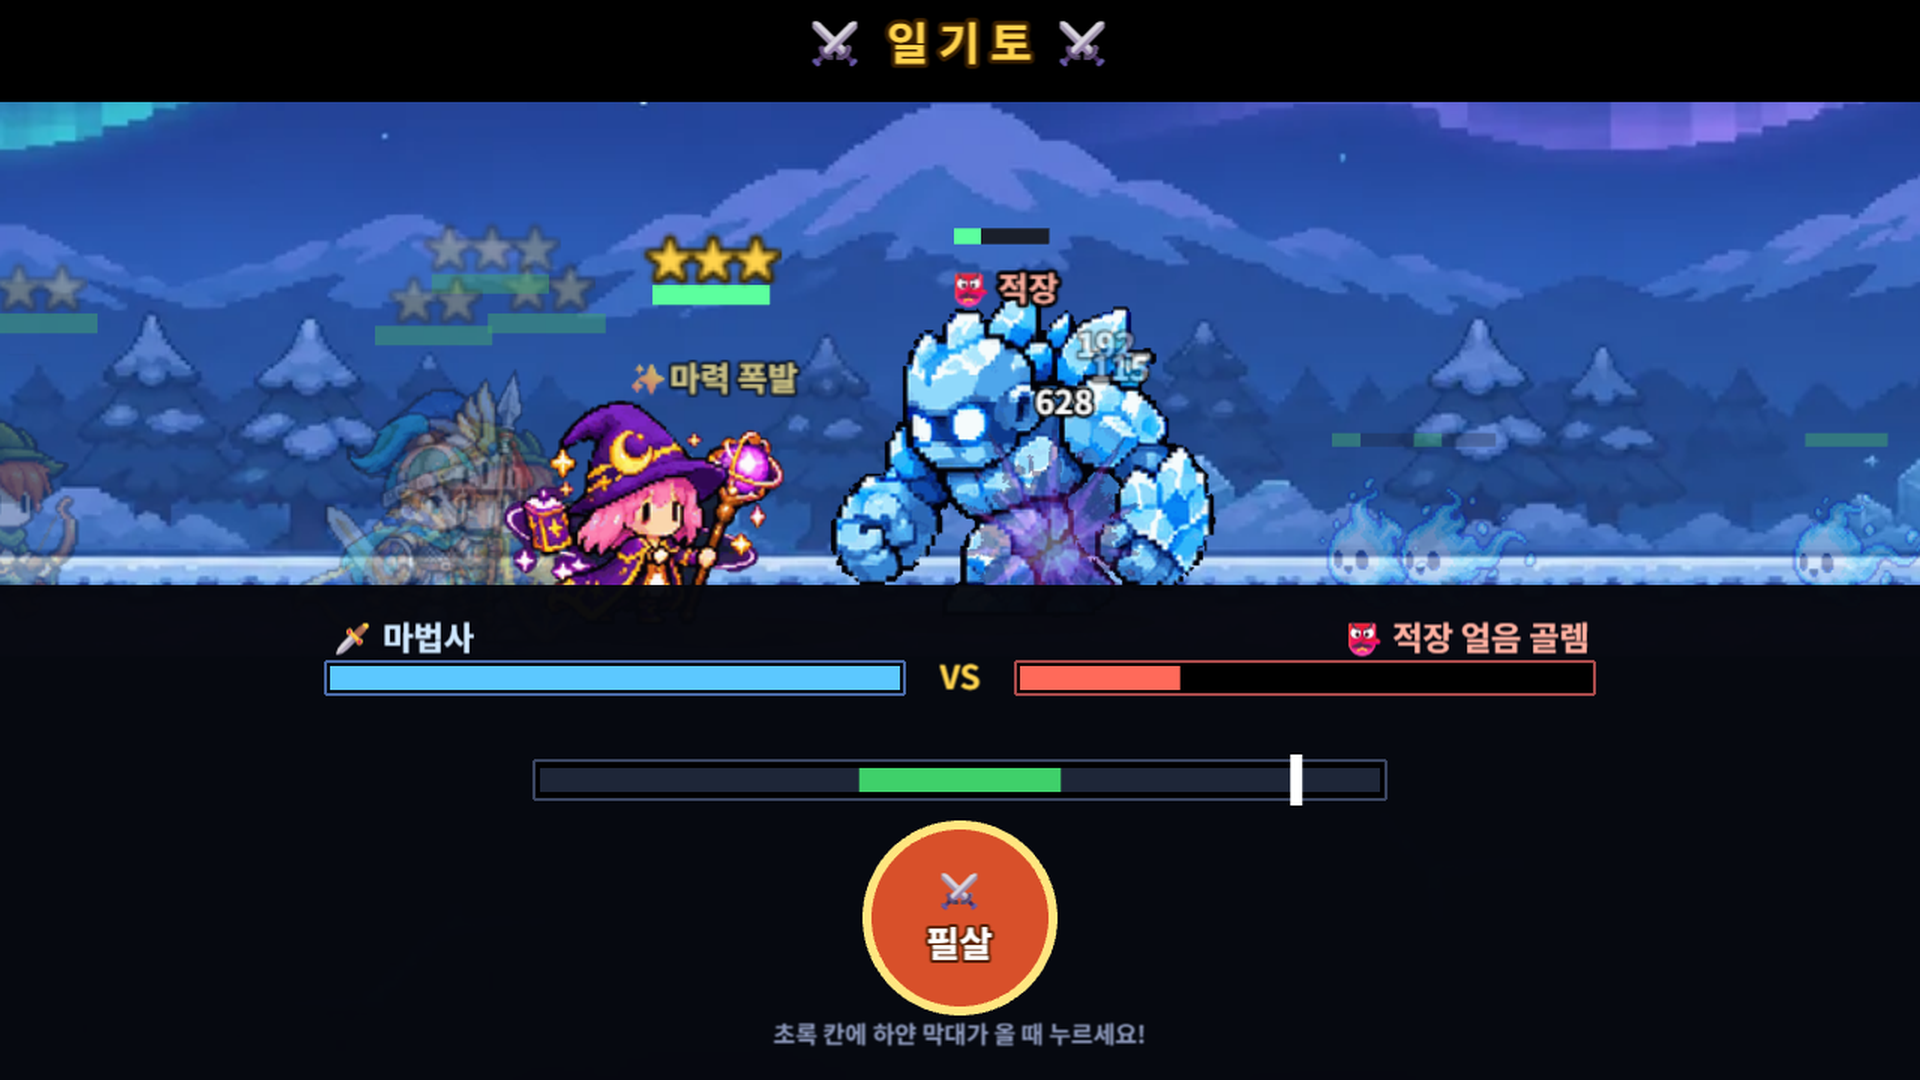
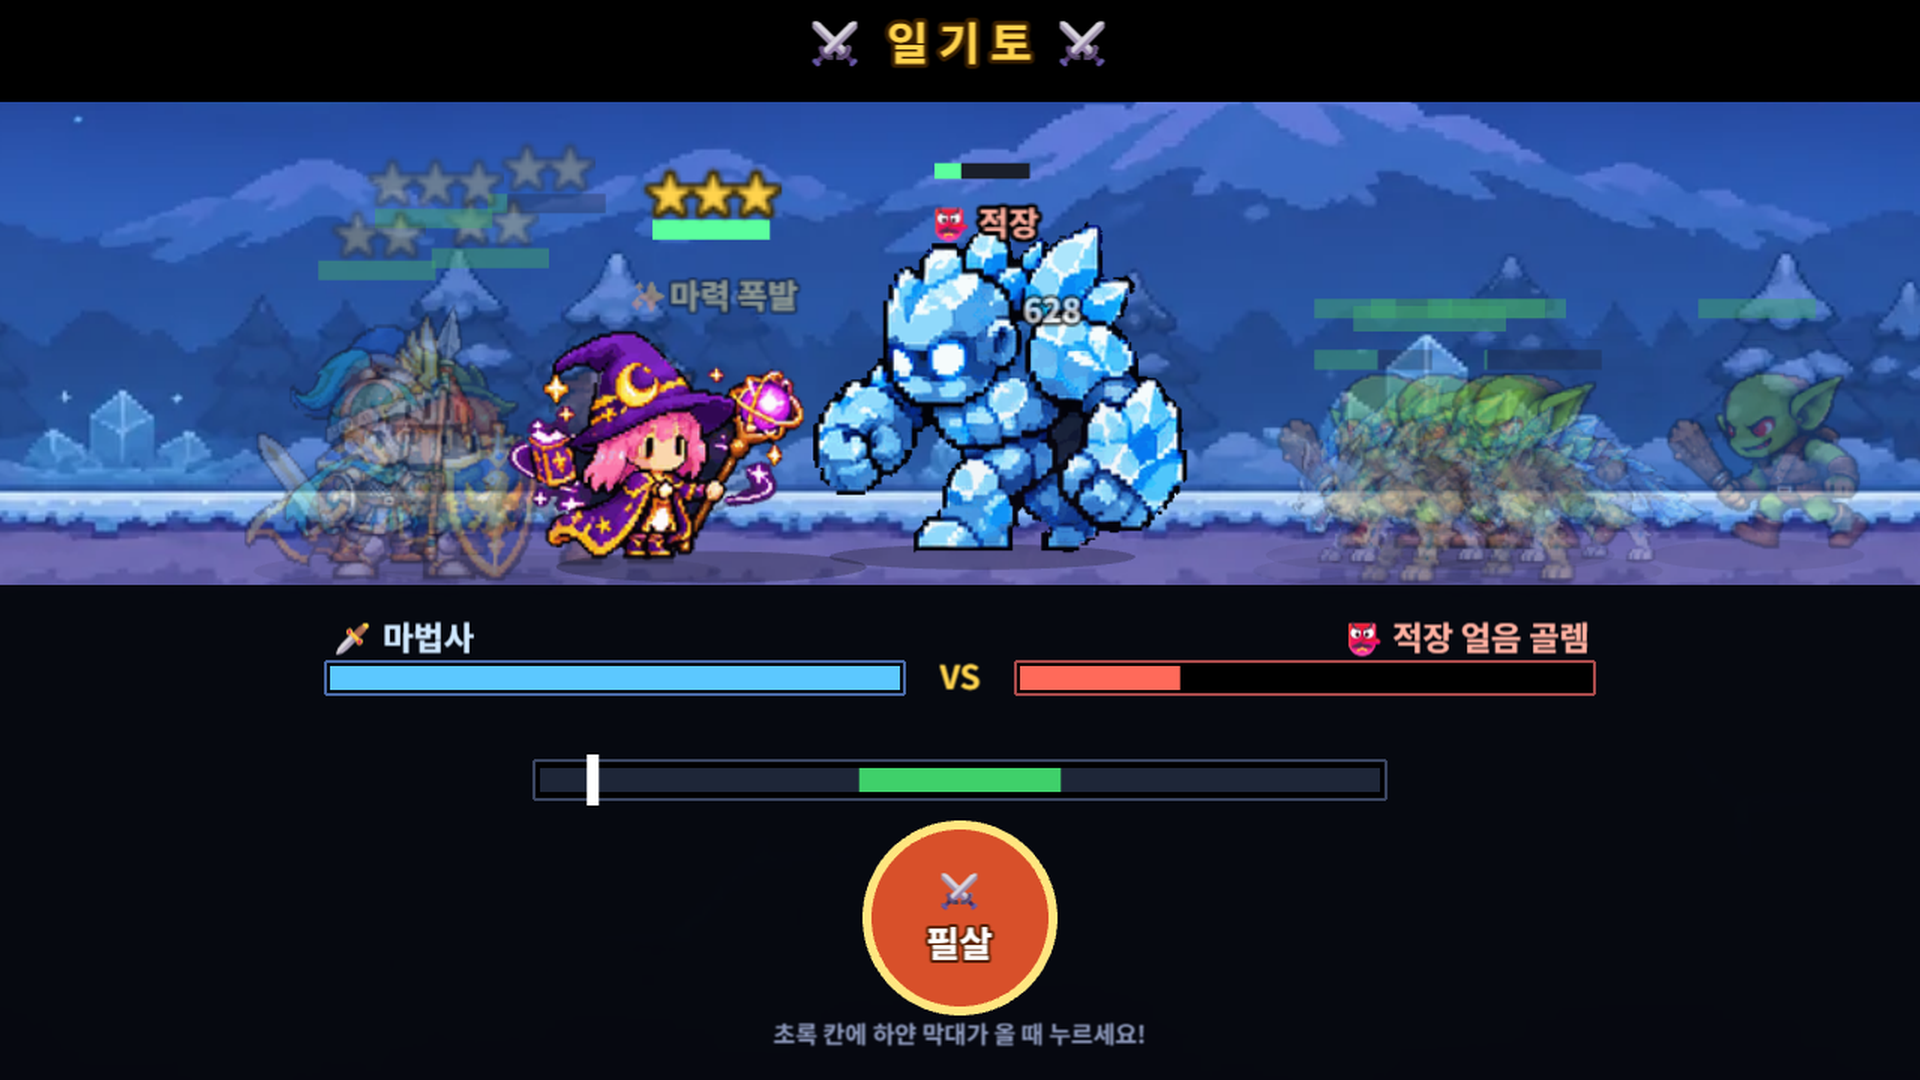
일기토: 카메라를 아래로 맞춰 결투자 발이 아래 검은 띠에 가리지 않게 + 스토어 일기토 스크린샷 다시 찍음

diff --git a/src/scenes/Battle.ts b/src/scenes/Battle.ts
@@ -1193,7 +1193,7 @@ export class BattleScene extends Phaser.Scene {
     this.tip.hide(); // 🎓 안내 말풍선도 치움
     const cam = this.cameras.main;
     this.lookX = null;
-    cam.pan(cx, LANE_Y - 10, 600, 'Sine.easeInOut'); // 바닥선이 화면 가운데쯤(아래 검은 띠에 가리지 않게)
+    cam.pan(cx, LANE_Y + 20, 600, 'Sine.easeInOut'); // 바닥선이 아래 검은 띠(390~) 위쪽에 오게 — 발·그림자까지 보임
     cam.zoomTo(DUEL_ZOOM, 600, 'Sine.easeInOut');
     const before = new Set(this.children.list);
     const top = this.add.rectangle(640, -40, VIEW_W, 80, 0x000000, 1).setOrigin(0.5, 0.5).setDepth(150);
@@ -1299,7 +1299,7 @@ export class BattleScene extends Phaser.Scene {
     this.slowmo = 0.3;
     this.applySpeed();
     const loser = win ? d.foe : d.ally;
-    if (loser) this.cameras.main.pan(loser.x, LANE_Y - 20, 300, 'Sine.easeOut');
+    if (loser) this.cameras.main.pan(loser.x, LANE_Y + 25, 300, 'Sine.easeOut'); // 확대해도 발이 검은 띠에 안 가리게
     this.cameras.main.zoomTo(DUEL_ZOOM * 1.18, 300, 'Sine.easeOut');
     this.cameras.main.flash(180, 255, 255, 255);
     sfx(this, win ? 'levelup' : 'boss');
